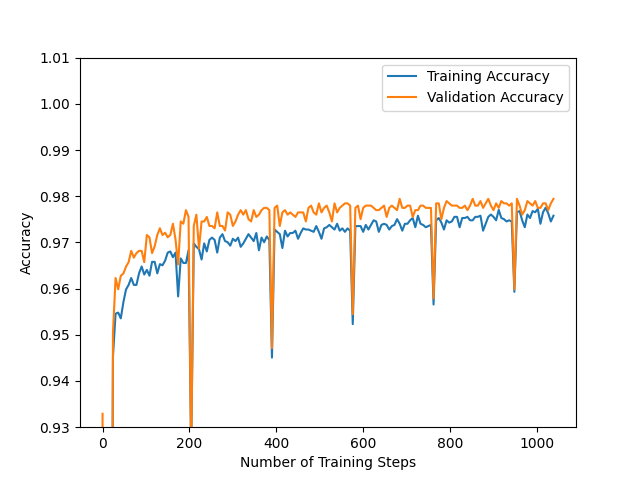
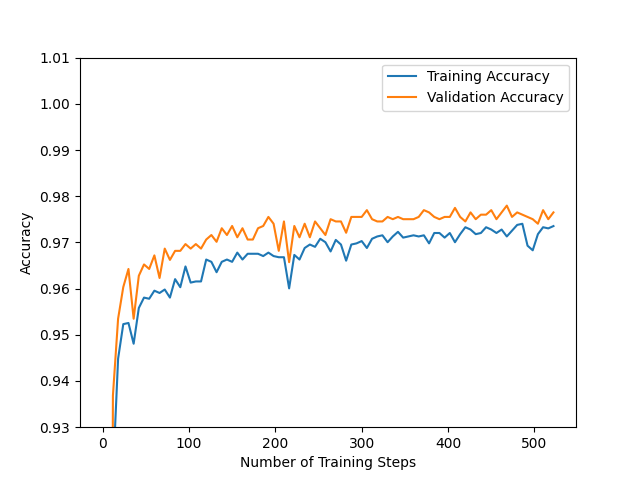
task 2 done

diff --git a/assignment1/trainer.py b/assignment1/trainer.py
@@ -93,10 +93,9 @@ class BaseTrainer:
                     # TODO (Task 2d): Implement early stopping here.
                     # You can access the validation loss in val_history["loss"]
                     # Comment this out before creating plots for 2b and 2c
-                    # print(val_history['loss'])
+
                     if lowest_loss > min(val_history["loss"].values()):
                         lowest_loss = min(val_history["loss"].values())
-                        print("lowest loss: ", lowest_loss)
                         early_stop_counter = 0
                     else:
                         early_stop_counter += 1

diff --git a/assignment1/utils.py b/assignment1/utils.py
@@ -23,9 +23,11 @@ def batch_loader(
     num_batches = len(X) // batch_size
     if not drop_last:
         num_batches = int(np.ceil(len(X) / batch_size))
-    indices = list(range(len(X)))
+    #indices = list(range(len(X)))
 
     # TODO (task 2e) implement dataset shuffling here.
+
+    indices = np.random.permutation(len(X))
 
     for i in range(num_batches):
         # select a set of indices for each batch of samples
